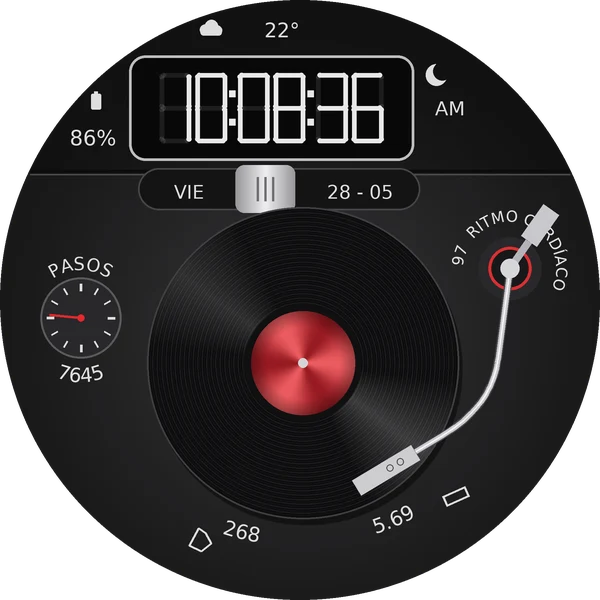
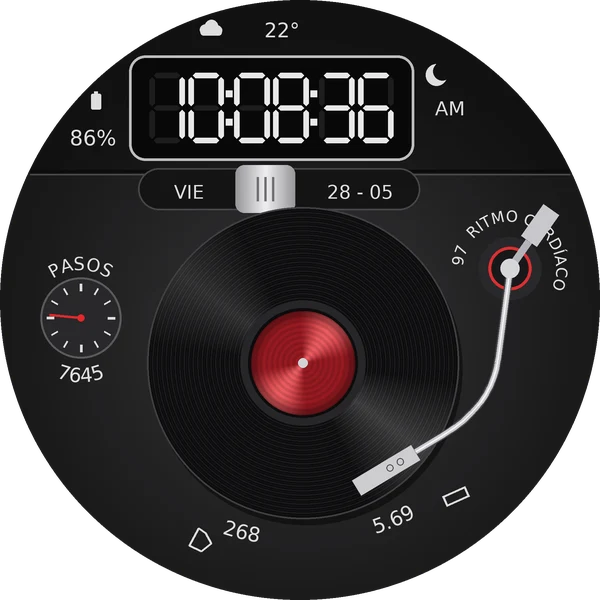
Vinilo: números de la pantalla con puntas en bisel, centro del disco de metal cepillado con anillo liso
Claude-Session: https://claude.ai/code/session_01RTdv2VrACuR4VFWJLA57hx

Changed region(s): [[0.3, 0.12, 0.66, 0.24], [0.39, 0.48, 0.63, 0.72]]

diff --git a/android/esferas-de-reloj/vinilo/src/main/java/cl/carlospnauto/esfera/FaceService.kt b/android/esferas-de-reloj/vinilo/src/main/java/cl/carlospnauto/esfera/FaceService.kt
@@ -397,7 +397,7 @@ class VinylRenderer(
         val m = "%02d".format(t.minute)
         val sc = if (showSeconds) "%02d".format(t.second) else "  "
         val dh = r * 0.235f
-        val dw = r * 0.107f
+        val dw = r * 0.118f
         val gap = r * 0.012f
         val colon = r * 0.035f
         val total = 6 * dw + 3 * gap + 2 * colon
@@ -432,20 +432,30 @@ class VinylRenderer(
         val rr = x + w - t / 2
         val top = y + t / 2
         val bot = y + h - t / 2
-        stroke.strokeCap = Paint.Cap.ROUND
-        stroke.strokeWidth = t
         val lit = SEGS[ch].orEmpty()
-        fun line(k: Char, x0: Float, y0: Float, x1: Float, y1: Float) {
-            stroke.color = if (k in lit) on else ghost
-            canvas.drawLine(x0, y0, x1, y1, stroke)
+        val h2 = t / 2
+        // Segmentos con puntas en bisel (hexágonos finos), como las pantallas de cristal líquido de la foto
+        fun hor(k: Char, x0: Float, x1: Float, yy: Float) {
+            fill.color = if (k in lit) on else ghost
+            path.reset()
+            path.moveTo(x0, yy); path.lineTo(x0 + h2, yy - h2); path.lineTo(x1 - h2, yy - h2)
+            path.lineTo(x1, yy); path.lineTo(x1 - h2, yy + h2); path.lineTo(x0 + h2, yy + h2); path.close()
+            canvas.drawPath(path, fill)
         }
-        line('a', l + g, top, rr - g, top)
-        line('b', rr, top + g, rr, m - g)
-        line('c', rr, m + g, rr, bot - g)
-        line('d', l + g, bot, rr - g, bot)
-        line('e', l, m + g, l, bot - g)
-        line('f', l, top + g, l, m - g)
-        line('g', l + g, m, rr - g, m)
+        fun ver(k: Char, xx: Float, y0: Float, y1: Float) {
+            fill.color = if (k in lit) on else ghost
+            path.reset()
+            path.moveTo(xx, y0); path.lineTo(xx + h2, y0 + h2); path.lineTo(xx + h2, y1 - h2)
+            path.lineTo(xx, y1); path.lineTo(xx - h2, y1 - h2); path.lineTo(xx - h2, y0 + h2); path.close()
+            canvas.drawPath(path, fill)
+        }
+        hor('a', l + g, rr - g, top)
+        ver('b', rr, top + g, m - g)
+        ver('c', rr, m + g, bot - g)
+        hor('d', l + g, rr - g, bot)
+        ver('e', l, m + g, bot - g)
+        ver('f', l, top + g, m - g)
+        hor('g', l + g, rr - g, m)
     }
 
     // ===== Piezas =====
@@ -523,20 +533,28 @@ class VinylRenderer(
         stroke.color = Color.rgb(64, 64, 66)
         stroke.strokeWidth = r * 0.006f
         canvas.drawCircle(x, y, rad, stroke)
-        // Centro de color metálico: gira con el disco
+        // Anillo liso alrededor del centro (sin surcos)
         val lr = rad * 0.335f
+        stroke.color = Color.rgb(38, 38, 40)
+        stroke.strokeWidth = rad * 0.05f
+        canvas.drawCircle(x, y, lr * 1.12f, stroke)
+        // Centro de metal cepillado de color: gira con el disco (los reflejos se mueven)
         canvas.save()
         canvas.rotate(spin, x, y)
-        fill.color = Color.rgb(16, 16, 17)
-        canvas.drawCircle(x, y, lr * 1.12f, fill)
         val (light, darkC) = label
-        fill.shader = SweepGradient(x, y, intArrayOf(darkC, light, darkC, light, darkC, light, darkC), null)
+        fill.shader = SweepGradient(x, y, intArrayOf(darkC, light, darkC, darkC, light, darkC, darkC), floatArrayOf(0f, 0.12f, 0.3f, 0.5f, 0.62f, 0.8f, 1f))
         canvas.drawCircle(x, y, lr, fill)
-        fill.shader = RadialGradient(x, y, lr, intArrayOf(0x00000000, 0x00000000, 0x55000000), floatArrayOf(0f, 0.7f, 1f), Shader.TileMode.CLAMP)
+        // Surcos finos del metal
+        stroke.strokeWidth = r * 0.002f
+        var q = lr * 0.18f
+        while (q < lr * 0.95f) {
+            stroke.color = Color.argb(28, 0, 0, 0)
+            canvas.drawCircle(x, y, q, stroke)
+            q += r * 0.009f
+        }
+        fill.shader = RadialGradient(x, y, lr, intArrayOf(0x00000000, 0x00000000, 0x66000000), floatArrayOf(0f, 0.78f, 1f), Shader.TileMode.CLAMP)
         canvas.drawCircle(x, y, lr, fill)
         fill.shader = null
-        // Marca en el centro (se nota el giro)
-        arcText(canvas, "CARLOS P. NAUTO", x, y, lr * 0.70f, 200f, 140f, r * 0.026f, Color.argb(150, 255, 255, 255))
         canvas.restore()
         // Eje
         fill.shader = RadialGradient(x - r * 0.006f, y - r * 0.006f, r * 0.02f, Color.rgb(240, 240, 240), Color.rgb(120, 120, 124), Shader.TileMode.CLAMP)
